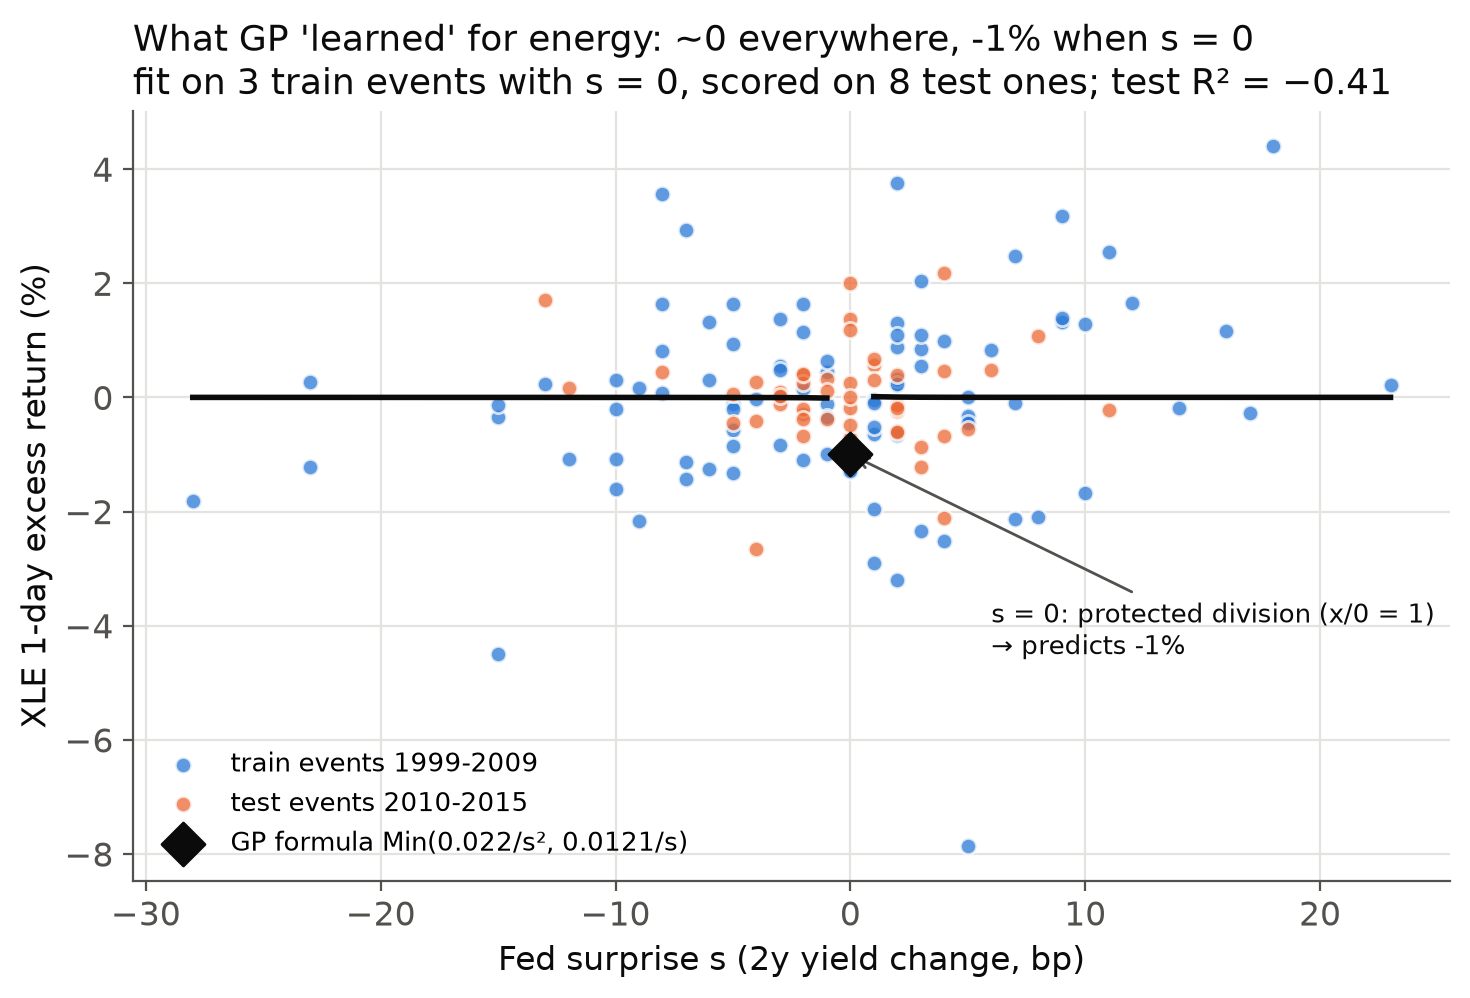
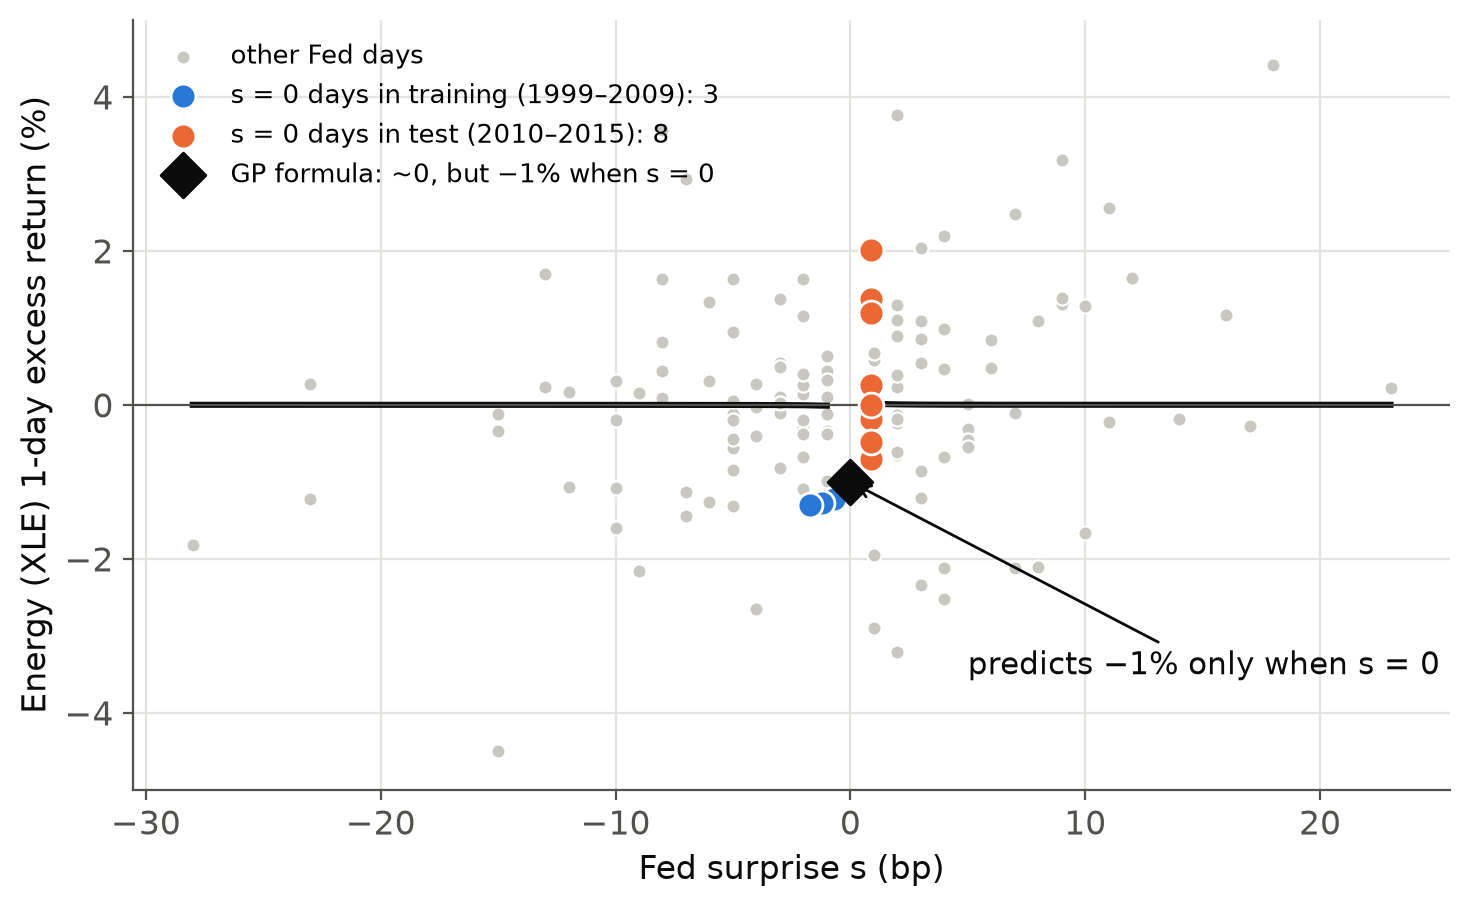
Redraw energy case-study and feature-usage figures for slides

diff --git a/src/plots.py b/src/plots.py
@@ -153,29 +153,38 @@ def fig4_xle():
     g = p[(p.ticker == "XLE") & (p.horizon == "1d") & (p.seed == 8)]
     ev = pd.read_csv(config.PROCESSED / "events.csv", parse_dates=["event_date"])[["event_date", "surprise_bp"]]
     g = g.merge(ev, on="event_date", how="left")
+    g = g[g["split"] != "unused"]  # 2016+ is locked for Stage 2; show only 1999-2015
     fig, ax = plt.subplots(figsize=(8.5, 5))
-    for split, color, lab in ((["train", "val"], "#2a78d6", "train events 1999-2009"),
-                              (["test"], "#eb6834", "test events 2010-2015")):
-        h = g[g["split"].isin(split)]
-        ax.scatter(h["surprise_bp"], h["y"] * 100, s=34, color=color, alpha=0.75, edgecolor="white",
-                   linewidth=1, label=lab)
+    # Background: every other Fed day in light gray. Foreground: the s = 0 days that drive the story.
+    rest = g[g.surprise_bp != 0]
+    ax.scatter(rest["surprise_bp"], rest["y"] * 100, s=26, color="#c9c7c1", edgecolor="white",
+               linewidth=0.8, label="other Fed days")
+    z = g[g.surprise_bp == 0].copy()
+    # Spread the s = 0 days sideways so they don't overlap: training to the left, test to the right.
+    # (The 3 training days sit at almost the same return, about -1.25%, which is what GP memorized.)
+    is_tr = z["split"] != "test"
+    z["x"] = 0.9
+    z.loc[is_tr, "x"] = -0.7 - 0.5 * np.arange(is_tr.sum())
+    for is_test, color, lab in ((False, "#2a78d6", "s = 0 days in training (1999–2009)"),
+                                (True, "#eb6834", "s = 0 days in test (2010–2015)")):
+        h = z[(z["split"] == "test") == is_test]
+        ax.scatter(h["x"], h["y"] * 100, s=80, color=color, edgecolor="white", linewidth=1, zorder=4,
+                   label=f"{lab}: {len(h)}")
     # gplearn's protected division returns 1 for x/0, so the formula is ~0 for s != 0 and
-    # jumps to -1% exactly when s == 0 (3 train events, 8 test events).
+    # jumps to -1% exactly when s == 0.
     curve = g.drop_duplicates("surprise_bp").sort_values("surprise_bp")
     for side in (curve[curve.surprise_bp < 0], curve[curve.surprise_bp > 0]):
-        ax.plot(side["surprise_bp"], side["yhat"] * 100, color=INK, linewidth=2)
+        ax.plot(side["surprise_bp"], side["yhat"] * 100, color=INK, linewidth=2.2)
     at0 = curve[curve.surprise_bp == 0]
-    ax.scatter(at0["surprise_bp"], at0["yhat"] * 100, s=120, marker="D", color=INK, zorder=5,
-               label="GP formula Min(0.022/s², 0.0121/s)")
-    ax.annotate("s = 0: protected division (x/0 = 1)\n→ predicts -1%", xy=(0, -1), xytext=(6, -4.5),
-                fontsize=9.5, color=INK, arrowprops=dict(arrowstyle="->", color=INK2))
-    n0 = g[g.surprise_bp == 0]["split"].replace("val", "train").value_counts()
-    ax.set_xlabel("Fed surprise s (2y yield change, bp)")
-    ax.set_ylabel("XLE 1-day excess return (%)")
-    ax.set_title(f"What GP 'learned' for energy: ~0 everywhere, -1% when s = 0\n"
-                 f"fit on {n0.get('train', 0)} train events with s = 0, scored on {n0.get('test', 0)} test ones; test R² = −0.41",
-                 loc="left", fontsize=13, color=INK)
-    ax.legend(fontsize=9.5, loc="lower left")
+    ax.scatter(at0["surprise_bp"], at0["yhat"] * 100, s=130, marker="D", color=INK, zorder=5,
+               label="GP formula: ~0, but −1% when s = 0")
+    ax.annotate("predicts −1% only when s = 0", xy=(0, -1), xytext=(5, -3.5),
+                fontsize=11, color=INK, arrowprops=dict(arrowstyle="->", color=INK))
+    ax.axhline(0, color=INK2, linewidth=0.8)
+    ax.set_xlabel("Fed surprise s (bp)")
+    ax.set_ylabel("Energy (XLE) 1-day excess return (%)")
+    ax.set_ylim(-5, 5)
+    ax.legend(fontsize=9.5, loc="upper left")
     save(fig, "fig4_xle_formula.png")
 
 
@@ -212,18 +221,23 @@ def fig6_features():
     cols = ["surprise_bp", "vix", "slope_2s10s", "beta_1y", "mom_20d", "constant"]
     agg = {h: [np.average(u[u.horizon == h][c], weights=u[u.horizon == h]["n_seeds"]) for c in cols]
            for h in config.HORIZONS}
-    fig, ax = plt.subplots(figsize=(8.5, 4.4))
+    names = {"surprise_bp": "Fed surprise", "vix": "VIX", "slope_2s10s": "Yield-curve slope",
+             "beta_1y": "Beta (1y)", "mom_20d": "Momentum (20d)", "constant": "No input at all"}
+    fig, ax = plt.subplots(figsize=(8.5, 4.6))
     y = np.arange(len(cols))
-    for i, (h, color) in enumerate(zip(config.HORIZONS, ("#2a78d6", "#eb6834"))):
-        ax.barh(y + (i - 0.5) * 0.38, np.array(agg[h]) * 100, 0.36, color=color, label=f"{h} horizon",
-                edgecolor="white", linewidth=1)
-    ax.set_yticks(y, [c if c != "constant" else "no input (constant)" for c in cols])
+    for i, (h, color, lab) in enumerate(zip(config.HORIZONS, ("#2a78d6", "#eb6834"), ("1-day", "5-day"))):
+        vals = np.array(agg[h]) * 100
+        yy = y + (i - 0.5) * 0.38
+        ax.barh(yy, vals, 0.36, color=color, label=lab, edgecolor="white", linewidth=1)
+        for yi, v in zip(yy, vals):
+            ax.text(v + 1, yi, f"{v:.0f}%", va="center", fontsize=10, color=INK2)
+    ax.set_yticks(y, [names[c] for c in cols], fontsize=12)
+    ax.get_yticklabels()[0].set_fontweight("bold")  # the Fed surprise is the variable the project is about
     ax.invert_yaxis()
-    ax.set_xlabel("share of GP2 per-sector seed-runs using the input (%)")
-    ax.set_title("GP2 uses the features, mostly at 5 days, but they don't help on test",
-                 loc="left", fontsize=12.5, color=INK)
+    ax.set_xlabel("share of GP2 formulas that use the input (%)")
+    ax.set_xlim(0, 68)
     ax.grid(axis="y", visible=False)
-    ax.legend(fontsize=9.5, loc="center right")
+    ax.legend(fontsize=10.5, loc="upper right")
     save(fig, "fig6_feature_usage.png")
 
 
